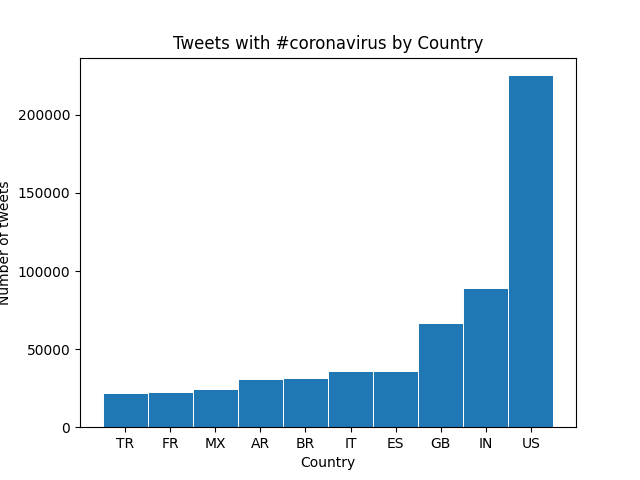
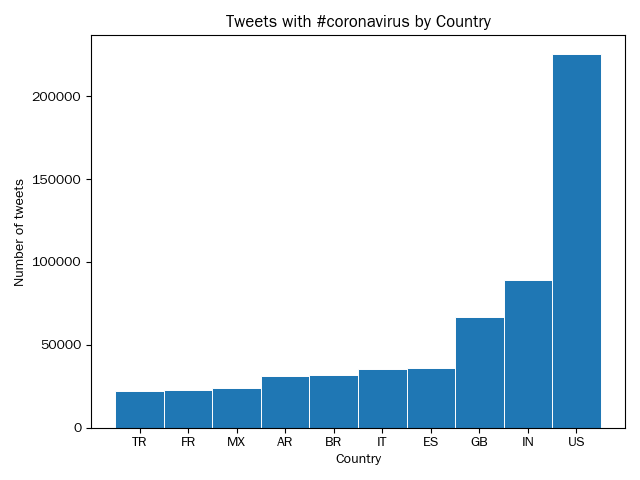
alternate reduce

diff --git a/src/visualize.py b/src/visualize.py
@@ -1,41 +1,4 @@
-#!/usr/bin/env python3
-
-# command line args
-import argparse
-parser = argparse.ArgumentParser()
-parser.add_argument('--input_path',required=True)
-parser.add_argument('--key',required=True)
-parser.add_argument('--percent',action='store_true')
-parser.add_argument('--output_png',required=True)
-args = parser.parse_args()
-
-# imports
-import os
-import json
-from collections import Counter,defaultdict
-
-# open the input path
-with open(args.input_path) as f:
-    counts = json.load(f)
-
-# normalize the counts by the total values
-if args.percent:
-    for k in counts[args.key]:
-        counts[args.key][k] /= counts['_all'][k]
-
-# getting the count values
-items = sorted(counts[args.key].items(), key=lambda item: (item[1],item[0]), reverse=True)[:10]
-top_10 = []
-top_10_values = []
-top_items = sorted(items, key=lambda item: item[1])
-for k,v in top_items:
-    top_10.append(k)
-    top_10_values.append(v)
-print(top_10)
-print(top_10_values)
-
-#plotting
-import matplotlib.pyplot as plt
+matplotlib.pyplot as plt
 import matplotlib
 import matplotlib.font_manager as fm
 matplotlib.rcParams['font.family'] = 'UnDotum'
@@ -45,16 +8,11 @@ if 'lang' in args.input_path:
 else:
     file_type = "Country"
 
-import matplotlib.pyplot as plt
-import matplotlib
-import matplotlib.font_manager as fm
-
-for font in fm.findSystemFonts():
-    print(font)
 plt.bar(top_10, top_10_values, width=1, edgecolor="white", linewidth=0.7)
 plt.title("Tweets with " + args.key + " by " + file_type)
 plt.ylabel("Number of tweets")
 plt.xlabel(file_type)
+plt.tight_layout()
 plt.savefig(args.output_png)
 
 plt.show()

diff --git a/src/alternate_reduce.py b/src/alternate_reduce.py
@@ -1,0 +1,50 @@
+#!/usr/bin/env python3
+
+# command line args
+import argparse
+parser = argparse.ArgumentParser()
+parser.add_argument('--input_paths',nargs='+', required=True)
+parser.add_argument('--keys',nargs='+', required=True)
+parser.add_argument('--output_path', required=True)
+args = parser.parse_args()
+
+# imports
+import os
+import json
+from collections import Counter,defaultdict
+
+# setting up variables
+day = 1
+days = []
+hashtag_count = [[] for ht in args.keys]
+for path in args.input_paths:
+    # setting up x axis of days in the year
+    days.append(day)
+    day += 1
+
+    with open(path) as f:
+        tmp = json.load(f)
+        for i, ht in enumerate(args.keys):
+            # finding the number of tweets per day
+            if ht in tmp.keys():
+                day_count = (sum(tmp[ht].values()))
+            else:
+                day_count = 0
+            hashtag_count[i].append(day_count)
+            
+# graphing using matplotlib
+import matplotlib.pyplot as plt
+import matplotlib
+matplotlib.rcParams['font.family'] = 'UnDotum'
+matplotlib.rcParams['axes.unicode_minus'] = False
+
+for i, ht in enumerate(args.keys):
+    plt.plot(days, hashtag_count[i], label=ht)
+
+plt.xlabel("Days of 2020")
+plt.ylabel("Number of Tweets")
+plt.title("Days of 2020 vs Number of Tweets with Different #s")
+plt.legend()
+plt.savefig(args.output_path)
+
+
